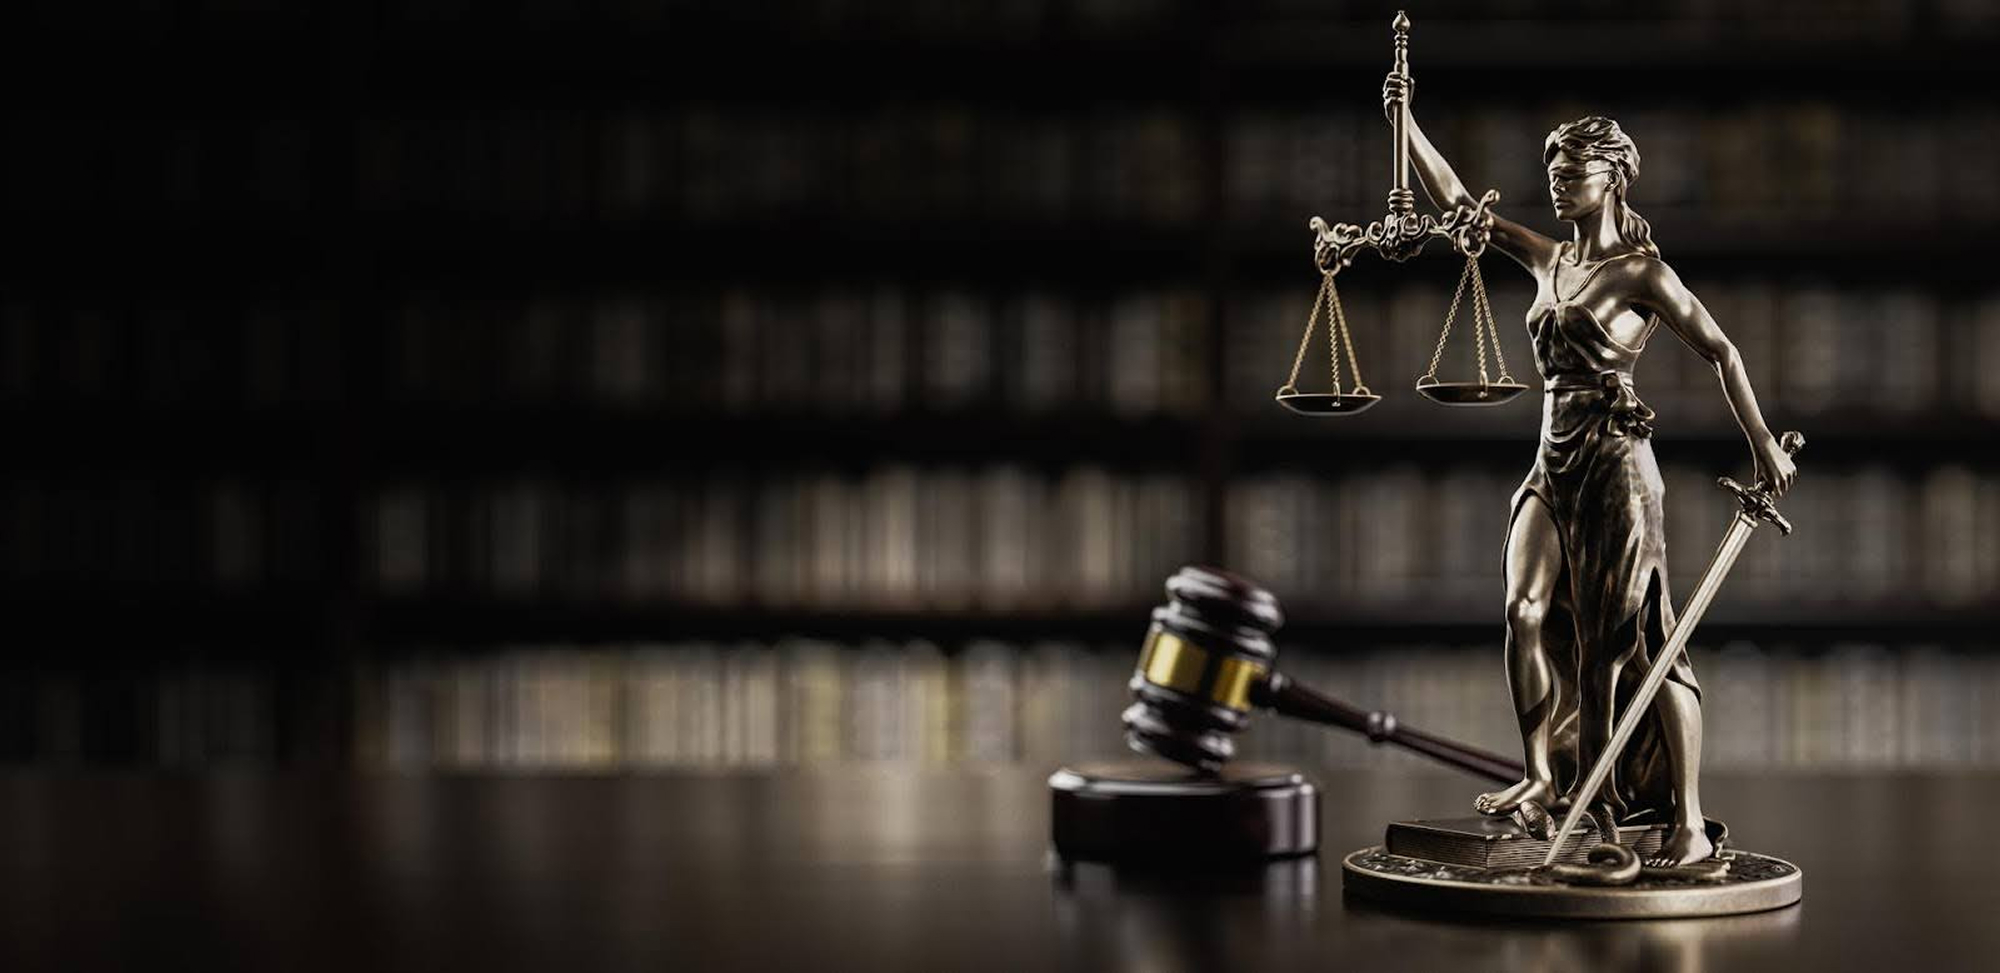
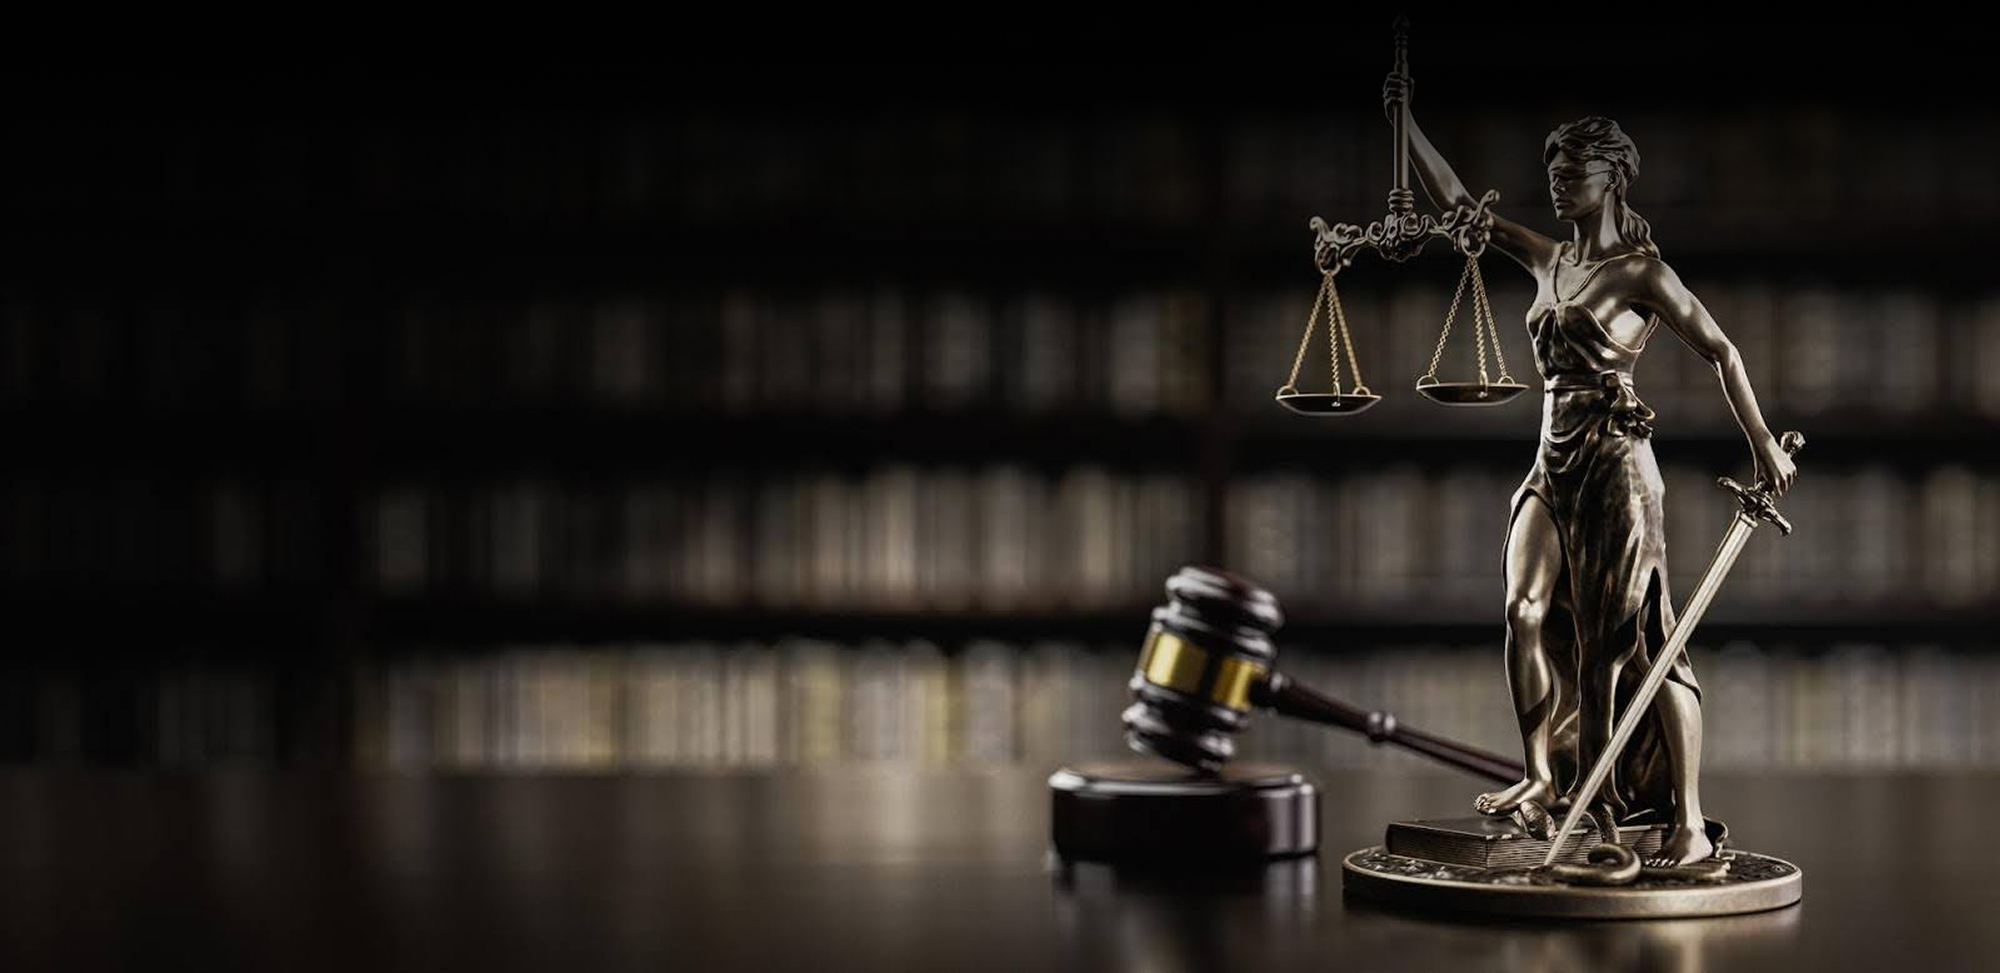
fix: Imagem da Hero

Changed region(s): [[0.651, 0.0, 0.93, 0.3392], [0.837, 0.0, 1.0, 0.0308]]

diff --git a/src/components/sectionElements/hero/HeroDefault.jsx b/src/components/sectionElements/hero/HeroDefault.jsx
@@ -99,7 +99,7 @@ export default function HeroDefault({ appDownloadButtons }) {
                 <div
                   className="bg-center rounded-xl w-full h-[350px] tablet1:h-[380px] desktop1:h-[500px] desktop1:w-[500px] bg-cover bg-no-repeat shadow-custom-opacity shadow-bgSectionDark"
                   style={{
-                    backgroundImage: `url(${content.texts.hero.heroDefaultImage})`,
+                    backgroundImage: `url(${content.texts.hero.heroImgFundo})`,
                     backgroundSize: "",
                   }}
                 ></div>
